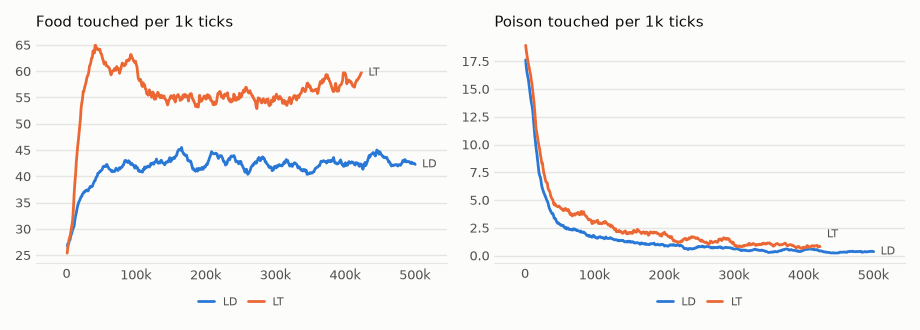
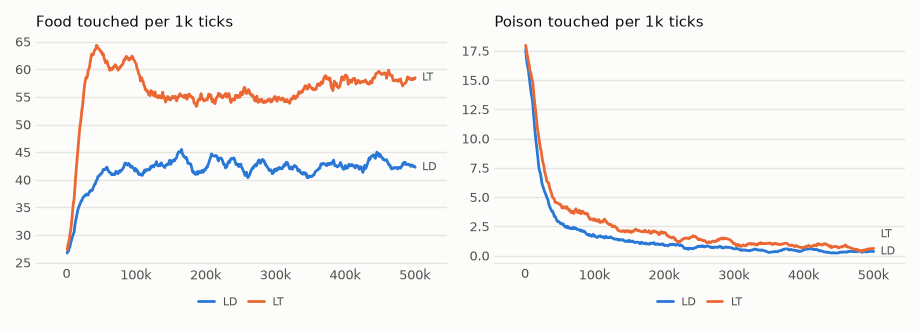
vm-00069 Long lives: no life trapped in 500k ticks with a memory of the whole life. Long lives pay in poison only: food is settled by 100k (LD 42.8 ± 10.5, LT 58.5 ± 16.5) and poison falls to 0.34 and 0.57, about seven eighths down from 40-60k. The reading for pieces is not met: LT - LD food +15.7 ±

diff --git a/visual-motor-agent/00069-long-life-pieces/README.md b/visual-motor-agent/00069-long-life-pieces/README.md
@@ -1,8 +1,8 @@
 # vm-00069: Long Lives for Many Pieces
 
 **Date:** 2026-11-01
-**Status:** In progress: LD finished at 500k; LT at 422k when this was written, so everything about LT below is interim.
-**Source:** `exp/vm-00069` once tagged (code: `visual-motor-agent/dev/`)
+**Status:** Complete (pending tag)
+**Source:** `exp/vm-00069` (code: `visual-motor-agent/dev/`)
 **Outputs:** `~/data/research/visual-motor-agent/exp_00069/`
 **Task plan:** [`../tasks/00080-long-life-pieces.md`](../tasks/00080-long-life-pieces.md)
 
@@ -14,7 +14,7 @@
 
 - **LT:** 16 pieces, `online.tie_tables=inout`, seeds 1–4 on the 4090, under MPS. **LD:** the default, 4 pieces, seeds 1–4 on the 3090.
 - Both: `gain`, `configs/U_default.json` (channels on), `online.steps=500000`, `online.replay=500000`, so the memory holds the whole life and nothing is forgotten.
-- **Frozen check:** `eval_pieces.py --ring` at 500k, 16 worlds, 1,500 ticks, every seed, `--rule random` beside gain. Done for LD; LT's waits for its end.
+- **Frozen check:** `eval_pieces.py --ring` at 500k, 16 worlds, 1,500 ticks, every seed, `--rule random` beside gain, on the 3090 without MPS.
 - **Set before the results (task 00080):**
   1. A life is trapped if its mean hunger over the last 20k ticks is above 0.9 or its food is under 1 per 1k.
   2. Long lives pay for an arm if its food over the last 20k minus its own 40–60k is above zero beyond its interval, or its poison is below zero beyond its interval with food not below.
@@ -22,53 +22,63 @@
 
 With 4 seeds, df 3: t = 3.182.
 
-## Results so far
+## Results
 
 ### R1. Food / poison per 1k ticks, by 50k ticks, mean of four seeds
 
 | arm | 0–50k | 50–100k | 100–150k | 150–200k | 200–250k | 250–300k | 300–350k | 350–400k | 400–450k | 450–500k |
 |---|---|---|---|---|---|---|---|---|---|---|
 | LD | 35.5 / 7.85 | 41.8 / 2.20 | 42.1 / 1.46 | 42.9 / 1.06 | 43.6 / 0.78 | 41.9 / 0.76 | 41.8 / 0.47 | 42.4 / 0.43 | 43.1 / 0.41 | 42.7 / 0.35 |
-| LT | 51.4 / 9.42 | 61.3 / 3.68 | 55.6 / 2.54 | 55.1 / 2.02 | 54.7 / 1.56 | 54.9 / 1.29 | 55.4 / 0.97 | 57.4 / 0.92 | running | |
+| LT | 51.4 / 9.42 | 61.4 / 3.69 | 55.6 / 2.55 | 55.1 / 2.02 | 54.7 / 1.56 | 54.9 / 1.29 | 55.4 / 0.97 | 57.4 / 0.93 | 58.2 / 0.85 | 58.4 / 0.60 |
 
-### R2. The same window for both arms, 400–420k, per 1k (interim)
+### R2. The last 20k ticks, per 1k
 
 | arm | food | poison | share | hunger | patch CE | body CE | move CE |
 |---|---|---|---|---|---|---|---|
-| LD | 42.7 ± 8.5 | 0.56 ± 0.30 | 0.99 | 0.032 | 0.741 | 0.240 | 0.874 |
-| LT | 58.3 ± 13.7 | 0.76 ± 0.33 | 0.99 | 0.032 | 0.765 | 0.231 | 0.973 |
+| LD | 42.8 ± 10.5 | 0.34 ± 0.04 | 0.99 | 0.041 | 0.739 | 0.239 | 0.908 |
+| LT | 58.5 ± 16.5 | 0.57 ± 0.55 | 0.99 | 0.028 | 0.764 | 0.231 | 1.000 |
 
-LT − LD, seed by seed: food +15.7 ± 12.0, poison +0.20 ± 0.25. Food by seed: LD 46.2, 48.2, 38.4, 37.8; LT 71.2, 54.7, 53.5, 53.8.
+Food by seed: LD 45.2, 50.7, 39.9, 35.5; LT 74.0, 52.0, 54.0, 54.1.
 
-### R3. LD at the end, the last 20k ticks
+Differences seed by seed:
 
-Food 42.8 ± 10.5 (45.2, 50.7, 39.9, 35.5), poison 0.34 ± 0.04, share 0.99, hunger 0.041, patch CE 0.739, body CE 0.239, move CE 0.908.
+| difference | food | poison |
+|---|---|---|
+| LD, last 20k − its 40–60k | +1.6 ± 5.2 | **−2.40 ± 0.60** |
+| LT, last 20k − its 40–60k | −4.2 ± 7.5 | **−3.80 ± 1.87** |
+| LT − LD, last 20k | +15.7 ± 18.1 (seeds +28.8, +1.3, +14.1, +18.6) | +0.24 ± 0.53 |
 
-Against its own 40–60k, seed by seed: food +1.6 ± 5.2, **poison −2.40 ± 0.60**.
+### R3. Frozen at 500k
 
-### R4. LD, frozen at 500k
+| arm | rule | food | poison | share | move size | smooth | aim |
+|---|---|---|---|---|---|---|---|
+| LT | `gain` | 57.9 ± 7.9 | 1.10 ± 0.62 | 0.98 | 0.77 | 0.29 | 0.85 |
+| LT | a piece at random | 55.1 ± 11.2 | 0.83 ± 0.20 | 0.99 | 0.75 | 0.24 | 0.80 |
+| LD | `gain` | 42.3 ± 10.8 | 0.58 ± 0.51 | 0.98 | 0.65 | 0.24 | 0.72 |
+| LD | a piece at random | 42.8 ± 11.1 | 0.43 ± 0.35 | 0.99 | 0.64 | 0.24 | 0.70 |
 
-| rule | food | poison | share | move size | smooth | aim |
-|---|---|---|---|---|---|---|
-| `gain` | 42.3 ± 10.8 | 0.58 ± 0.51 | 0.98 | 0.65 | 0.24 | 0.72 |
-| a piece at random | 42.8 ± 11.1 | 0.43 ± 0.35 | 0.99 | 0.64 | 0.24 | 0.70 |
+`gain` − random, seed by seed: LT food +2.8 ± 8.5, poison +0.28 ± 0.73; LD food −0.6 ± 1.9, poison +0.15 ± 0.54.
 
-`gain` − random, seed by seed: food −0.6 ± 1.9, poison +0.15 ± 0.54.
+Not a reading, and made after seeing R2: LT − LD in frozen food, seed by seed, is +15.6 ± 11.0 (+12.8, +7.5, +23.3, +18.8).
 
-### R5. Move CE climbs and the moves do not change
+### R4. Move CE climbs and the moves do not change
 
 Mean of seeds over the 20k ticks from each mark:
 
-| arm | measure | 0k | 100k | 200k | 300k | 400k |
-|---|---|---|---|---|---|---|
-| LD | move CE | 0.160 | 0.469 | 0.692 | 0.809 | 0.874 |
-| LD | proposal size | 0.88 | 0.89 | 0.90 | 0.89 | 0.90 |
-| LD | smooth | 0.30 | 0.26 | 0.25 | 0.24 | 0.23 |
-| LD | agreement of p0 with the move | 0.60 | 0.56 | 0.55 | 0.53 | 0.54 |
-| LT | move CE | 0.112 | 0.524 | 0.797 | 0.916 | 0.973 |
-| LT | proposal size | 0.87 | 1.07 | 1.06 | 1.05 | 1.08 |
+| arm | measure | 0k | 100k | 200k | 300k | 400k | 480k |
+|---|---|---|---|---|---|---|---|
+| LD | move CE | 0.160 | 0.469 | 0.692 | 0.809 | 0.874 | 0.908 |
+| LD | proposal size | 0.88 | 0.89 | 0.90 | 0.89 | 0.90 | |
+| LD | smooth | 0.30 | 0.26 | 0.25 | 0.24 | 0.23 | 0.23 |
+| LD | agreement of p0 with the move | 0.60 | 0.56 | 0.55 | 0.53 | 0.54 | |
+| LT | move CE | 0.112 | 0.524 | 0.797 | 0.916 | 0.973 | 1.000 |
+| LT | proposal size | 0.87 | 1.07 | 1.06 | 1.05 | 1.08 | |
 
-Patch CE falls over the same life, 0.792 to 0.740 in LD, and body CE stays flat. Mean memory age rises in step with the life, as a memory of the whole life must: half the life at every point.
+Patch CE falls over the same lives, 0.792 to 0.739 in LD and 0.818 to 0.764 in LT, and body CE stays flat. Mean memory age rises in step with the life, as a memory of the whole life must: half the life at every point.
+
+### R5. Speed
+
+LD 22–27 ticks/s per life at the end, four lives on the 3090, 8.3 hours. LT 13.8 ticks/s per life, four on the 4090, 13.3 hours, of which over 3 hours at about 2 ticks/s while vm-00070 shared the GPU.
 
 <!-- figures -->
 ## Figures
@@ -82,13 +92,35 @@ Patch CE falls over the same life, 0.792 to 0.740 in LD, and body CE stays flat.
 *From each run's `metrics.jsonl`, the mean of its seeds by arm, smoothed.*
 <!-- /figures -->
 
-## Reading so far
+## Videos
 
-1. **Trapped: not for LD.** No LD life is near the limits: the worst mean hunger of the last 20k is 0.076, the least food 35.5. Hunger did touch 1.0 in at least one log row after 20k ticks in every life of both arms, and came back. The ring memory of vm-00031 trapped two lives of three; these are 4 seeds of a different model, so the whole-life memory is not proved the cause.
-2. **Long lives pay for LD, in poison only.** Food stays level from 50k to 500k: whatever food this model reaches, it reaches in the first 50k ticks. Poison keeps falling for the whole life, to about an eighth of its level at 40–60k. For LT the interim difference is food −4.3 ± 6.7 and poison −3.51 ± 1.74 at 422k.
-3. **Pieces hold their lead: not judged yet.** The window above is interim and not the reading's. With 4 seeds it leans on LT's seed 1.
+Not in the repository: `~/data/research/visual-motor-agent/exp_00069/videos/`, 1,000 ticks at 500k. `ld_seeds/compare.mp4` and `lt_seeds/compare.mp4` show each arm's four seeds from the same start; `lt_vs_ld/compare.mp4` shows LT seed 4 against LD seed 1, the seeds closest to their arms' mean food; `ld_s1/forage.mp4` shows LD seed 1 alone.
 
-## What is open
+## Readings
 
-- **Move CE.** A model that gets better at the frames and worse at its own moves, with the moves about the same, has not been explained. It is scored on the training batch, 7 of whose 8 windows come from the memory, so a guess is that a memory of the whole life keeps showing it moves from every age; another is that the model's move distribution widens over time, since it is trained on samples of itself. Neither was tested. The instinct draws its candidates from that distribution, so if the second is right, a longer life may slowly change what it can choose from.
-- **Gain does nothing by the end.** In LD at 500k a piece drawn at random does as well as `gain`, on food and on poison, though `gain` was what the life was lived by. The random draw is of pieces raised under gain, so this says nothing about what the rule taught them.
+1. **Trapped: no.** No life of either arm is near the limits: the worst mean hunger of the last 20k is 0.076, the least food 35.5. Hunger touched 1.0 in at least one log row after 20k ticks in every life, and came back. The ring memory of vm-00031 trapped two lives of three; these are 4 seeds of each of two different models, so the whole-life memory is not proved the cause.
+2. **Long lives pay: met for both, in poison and not in food.** LD −2.40 ± 0.60, LT −3.80 ± 1.87. "Food not below" is read in the reading's own terms, as not below zero beyond its interval. LT's food is lower than at 40–60k by 4.2 on its mean, and that interval includes zero.
+3. **Pieces hold their lead: not met.** LT − LD in food is +15.7 ± 18.1, and the interval includes zero. All four seeds are above zero, and the frozen check gives the same size of lead, but that check was not the reading.
+
+## Analysis
+
+- **A long life cleans; it does not feed.** Each arm reaches its food in the first 100k ticks and then stays there, while poison falls for the whole life: LD to about an eighth of its level at 40–60k, LT to about an eighth too. Both arms end at a share of 0.99. Whatever the extra 440k ticks teach, it is what to avoid.
+- **LT's food has a shape LD's does not.** It peaks at 61.4 at 50–100k, drops to 55 and climbs back to 58.4 by the end. The peak is what makes its long-life food difference negative. Seed 3 accounts for much of the dip and the return, 46.8 to 39.4 to 54.3 by 100k blocks. With 4 seeds no more can be said.
+- **The lead may well be real, but this experiment did not show it.** Going from 4 to 16 pieces at 60k gave +20.6 ± 12.7 with shared tables on 8 seeds (vm-00067), a similar size, without channels. Here four seeds, one far from the others (74.0), leave too wide an interval. The reading as set is what stands.
+- **Gain does nothing by the end, in either arm.** A piece drawn at random does as well as `gain`, though `gain` was what the lives were lived by. Gain's aim at near food is +0.051 ± 0.034 above a random piece in LT, +0.014 ± 0.029 in LD. The random draw is of pieces raised under gain, so this says nothing about what the rule taught them. A likely reason: `gain` chooses by predicted hunger, and the pieces' predictions now differ by more than 0.005 on only 12% of ticks in LT and 10% in LD, against 44% for G16 and 21% for NA at 60k, the same numbers of pieces without channels. On most ticks there is little for the rule to choose by. This was not tested.
+- **Frozen poison is about twice the lifetime's.** LD 0.58 against 0.34, LT 1.10 against 0.57, with food unchanged. Either the frozen check's 16 worlds are harder than one life at the end, or a learner that keeps learning keeps its poison lower. This was not separated, and the intervals overlap.
+- **Move CE is not explained.** A model that gets better at the frames and worse at its own moves, with the moves about the same, is a real oddity, and it is still rising at 500k. It is scored on the training batch, 7 of whose 8 windows come from the memory, so one guess is that a memory of the whole life keeps showing it moves from every age; another is that the model's move distribution widens over time, since it is trained on samples of itself. Neither was tested. The instinct draws its candidates from that distribution, so if the second is right, a longer life may slowly change what it can choose from. The readings above do not depend on this.
+- **Caveats:** LT and LD have channels on, and their controls at 60k did not, so nothing here is read against those. Seeds of LT and LD are paired by number only, since they are different models. LT was slowed for over 3 hours by vm-00070, which changes wall time and not ticks. About 15 tests are read here; with df 3 only the poison differences are firm.
+
+## Conclusions
+
+1. **No life was trapped** in 500k ticks with a memory of the whole life, in either arm.
+2. **Long lives pay in poison only.** Food is settled by 100k ticks; poison keeps falling to the end, by about seven eighths from 40–60k.
+3. **The reading for pieces is not met:** LT − LD +15.7 ± 18.1 in food. The lead's size is like that of vm-00067, but four seeds did not show it.
+4. By 500k `gain` does no better than a piece drawn at random, on food or on poison, likely because the pieces' predicted hungers rarely differ.
+5. Move CE rises from about 0.15 to 0.91 and 1.00 while the moves stay about the same. That is open, and it is the first thing to look at before longer lives.
+
+## Next steps
+
+- Separate the two guesses about move CE: score it on the newest window alone, and on a memory limited to recent ticks.
+- A longer life alone is not worth repeating for food. If lives go on, a changing world is the test: the adaptation experiment asks whether a settled model can still move.

diff --git a/visual-motor-agent/README.md b/visual-motor-agent/README.md
@@ -112,7 +112,7 @@ of, reward. Then test whether that knowledge helps it learn the task.
 | [00066](00066-value-channels/README.md) | A channel per value (`model.uni_chan=1`: body and move get their own rows in `W_in` and `W_out`): CH (council, 16 pieces); seeds 1-8, 60k | Complete | The reading is met: food −5.2 ± 11.0, poison +0.03 ± 0.26; body and move CE do not move. The channels stay in the design. |
 | [00067](00067-shared-tables/README.md) | One table for all pieces (`online.tie_tables=inout`): TB (gain, 16 pieces); seeds 1-8, 60k: is the rise at 16 pieces more tokens? | Complete | TB − G16 food −7.7 ± 13.4, TB − NA +20.6 ± 12.7: the rise survives one table. Poison −2.21 ± 0.83, patch CE −0.010 ± 0.003, with half the distinct parameters. |
 | [00068](00068-mimic-text/README.md) | Saying it out loud, in text: half 1 predicts letters, half 2 learns only from half 1 and says the missing words, so the model hears itself (`reference/mimic.py`, PyTorch prototype); arms Z, N, A, B, S, E | Complete | Half 2 never sees the world and beats half 1 on held-out text by 0.05–0.30 nats. Hearing itself does no detectable harm, and half 1 copes better with its own errors. Weighting by error stops overfitting. |
-| [00069](00069-long-life-pieces/README.md) | Long lives: 500k ticks with a memory of the whole life: LT (16 pieces, shared tables), LD (the default, 4 pieces); seeds 1-4, gain | In progress | LD finished: no life trapped, food level from 50k to 500k (42.8 ± 10.5), poison keeps falling (0.34 ± 0.04). LT running, ahead at 400–420k: 58.3 against 42.7 food. Move CE climbs through the life with the moves about the same, unexplained. |
+| [00069](00069-long-life-pieces/README.md) | Long lives: 500k ticks with a memory of the whole life: LT (16 pieces, shared tables), LD (the default, 4 pieces); seeds 1-4, gain | Complete | No life trapped. Long lives pay in poison only: food is settled by 100k, poison falls to 0.34 and 0.57. Pieces' lead not shown: LT − LD food +15.7 ± 18.1 on four seeds. By 500k `gain` does no better than a random piece. Move CE climbs to 0.91 and 1.00 with the moves about the same, unexplained. |
 | [00070](00070-two-senses/README.md) | Two senses, one body: a view and a text sense side by side, each going off by itself (`env.sense`); ST (true teacher), SS (shuffled words); seeds 1-8, 60k | Complete | **Words guide it with no reward on them:** eyes closed past its memory, 21.3 food and 3.4 poison per 1k ticks against 11.6 and 16.8 with shuffled words; sentences from the picture 0.67 against 0.07. Both pieces steer from the words, the view piece too. Reading 2 failed: no measurable picture from words, so what words give reaches action, not imagery. |
 
 ## Open Questions

diff --git a/visual-motor-agent/tasks/00080-long-life-pieces.md b/visual-motor-agent/tasks/00080-long-life-pieces.md
@@ -1,7 +1,7 @@
 # Task 00080: Long Lives for Many Pieces (experiment vm-00069)
 
 **Date:** 2026-11-01
-**Status:** In progress
+**Status:** Complete
 
 ## Context
 
@@ -36,9 +36,16 @@ Short trial: 2,200 ticks of LT with `online.replay=500000`, 13.8 ticks/s against
 
 ## Results
 
-Interim: LD finished at 500k, LT at 422k. See the [README](../00069-long-life-pieces/README.md).
+The last 20k ticks, per 1k, four seeds:
 
-- Reading 1: no LD life trapped (worst mean hunger 0.076, least food 35.5). LT to come.
-- Reading 2: met for LD by poison, −2.40 ± 0.60, with food +1.6 ± 5.2. LT to come.
-- Reading 3: not judged. At 400–420k LT − LD food is +15.7 ± 12.0.
-- Not asked in advance: move CE climbs from 0.16 to 0.91 over LD's life with the moves about the same, and at 500k `gain` does no better than a random piece.
+| arm | food | poison | share | hunger |
+|---|---|---|---|---|
+| LD | 42.8 ± 10.5 | 0.34 ± 0.04 | 0.99 | 0.041 |
+| LT | 58.5 ± 16.5 | 0.57 ± 0.55 | 0.99 | 0.028 |
+
+- Reading 1: no life trapped in either arm (worst mean hunger 0.076, least food 35.5).
+- Reading 2: met for both, in poison: LD −2.40 ± 0.60 with food +1.6 ± 5.2, LT −3.80 ± 1.87 with food −4.2 ± 7.5.
+- Reading 3: **not met.** LT − LD food +15.7 ± 18.1. All four seeds are above zero and the frozen check gives the same size, but the reading as set stands.
+- Not asked in advance: move CE climbs from about 0.15 to 0.91 and 1.00 with the moves about the same, unexplained; by 500k `gain` does no better than a random piece.
+
+See the [README](../00069-long-life-pieces/README.md).
